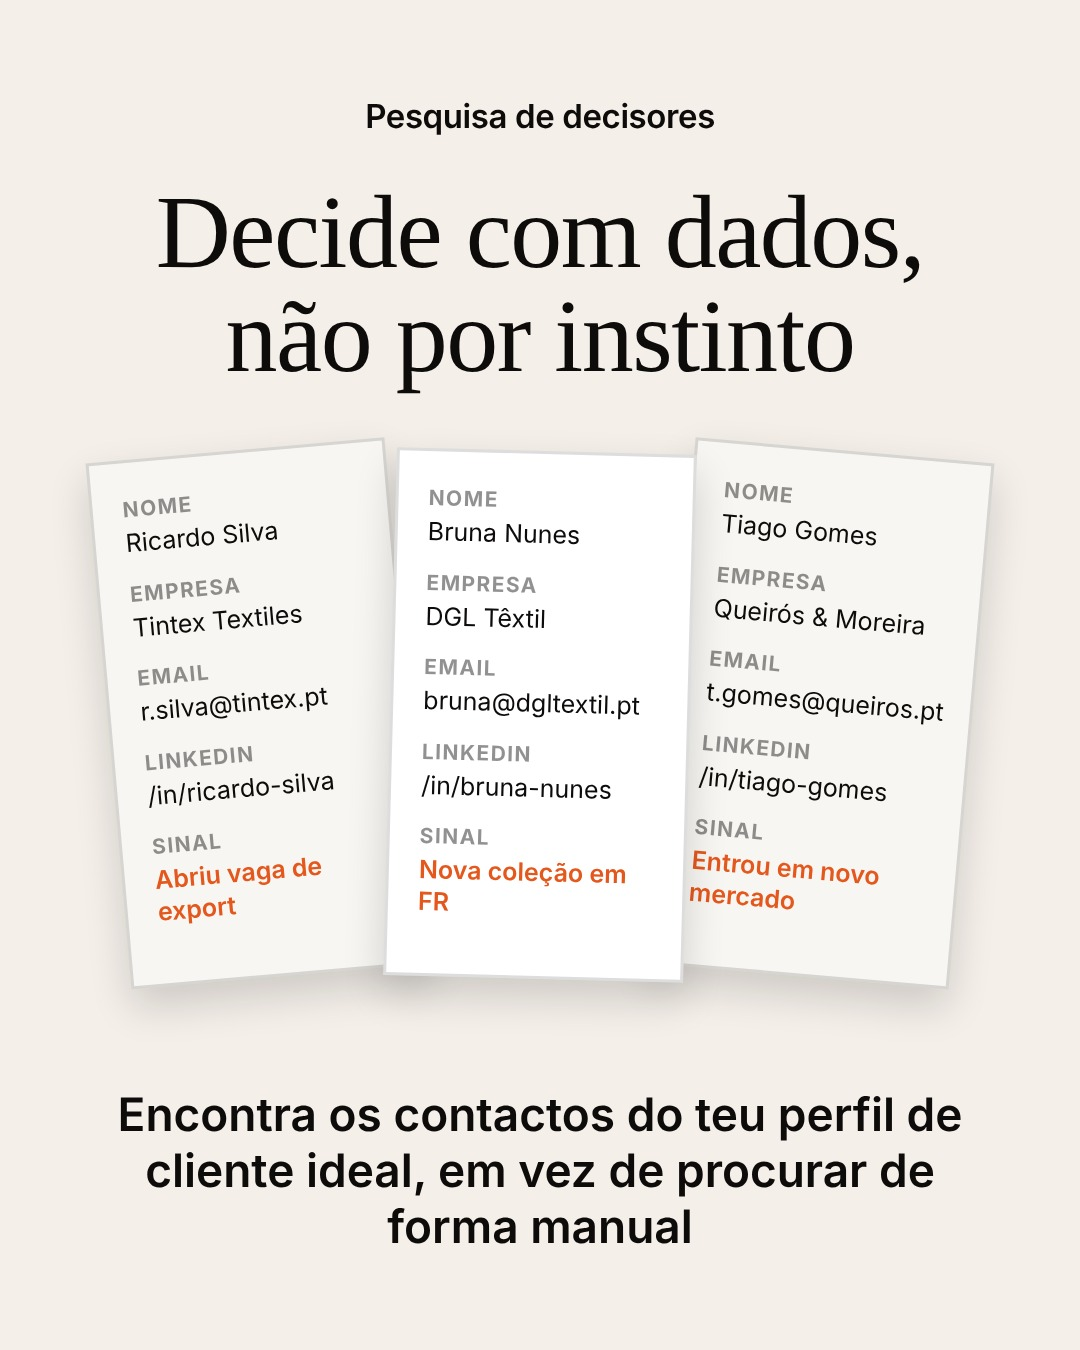
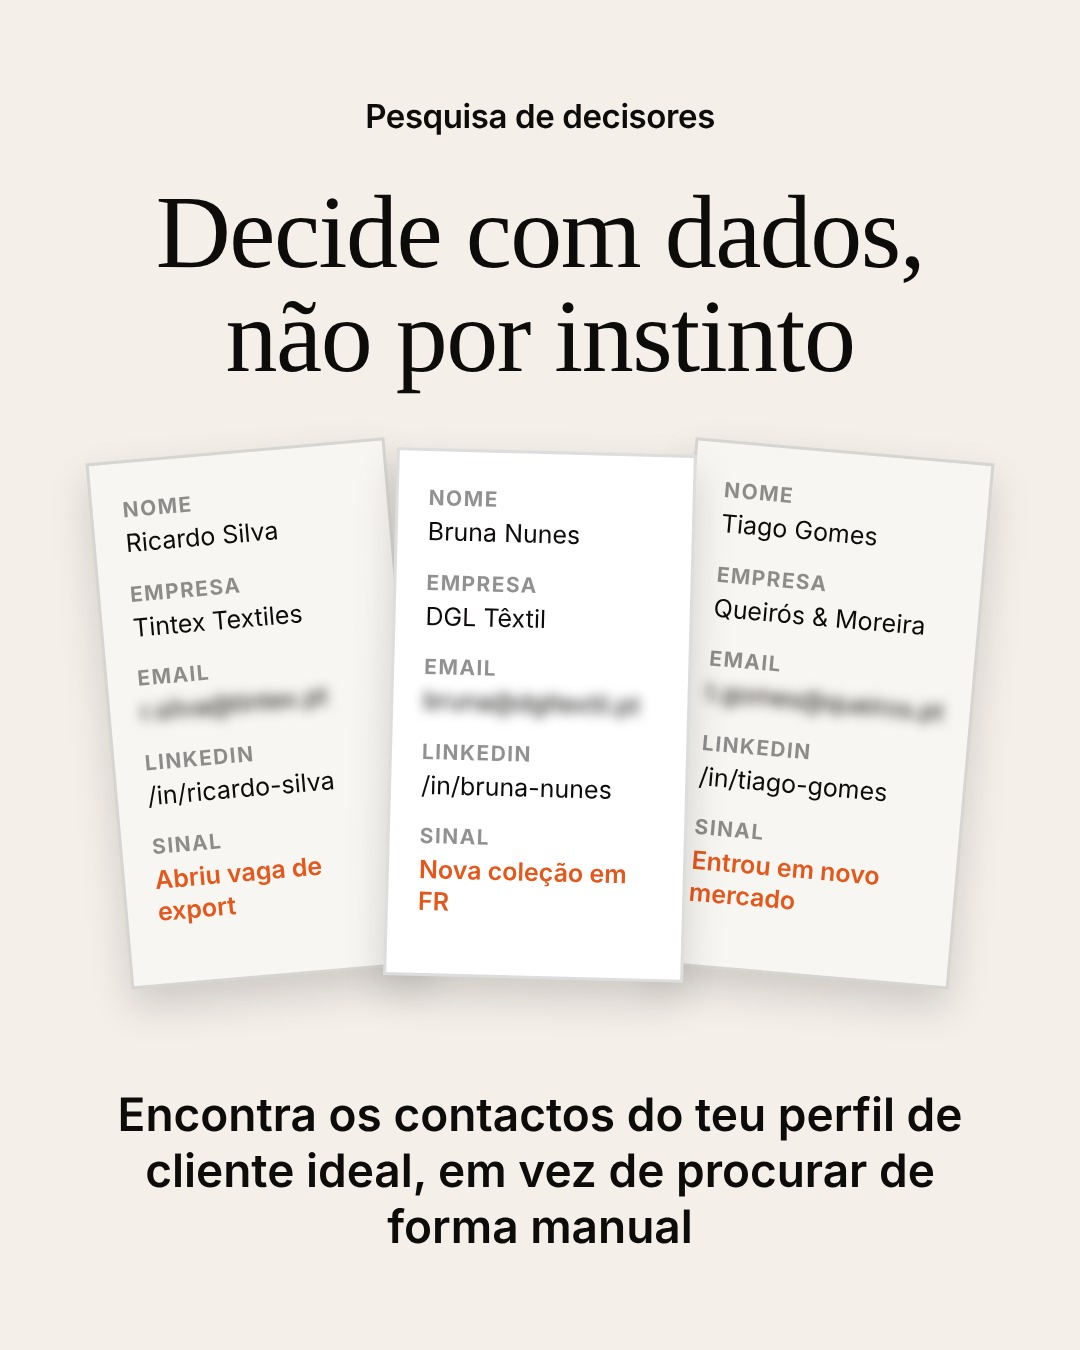
Carrossel de referencia v3: ajustes de texto e espacamento
- capa: automatizar as vendas a branco
- slide 2: emails dos contactos com blur
- slide 3: ramos mais abaixo e frase de fecho
- slide 4: caixas mais acima e frase sobre sequencias multicanal
- slide 5: tarefas descritas como lembretes manuais, nao criadas pelas campanhas
- slide 6: linha entre parenteses removida e conteudo centrado

Changed region(s): [[0.6417, 0.4978, 0.8861, 0.56], [0.1222, 0.4978, 0.3056, 0.56], [0.3667, 0.4978, 0.6111, 0.5289]]

diff --git a/templates/referencia/carrossel-referencia.html b/templates/referencia/carrossel-referencia.html
@@ -34,6 +34,7 @@ section{width:1080px;height:1350px;position:relative;overflow:hidden;display:blo
 #s1 .pe{position:absolute;left:96px;right:96px;bottom:120px;z-index:2}
 #s1 .pe img{height:62px;display:block;margin-bottom:26px}
 #s1 .pe p{color:var(--bg);font-weight:700;font-size:50px;line-height:1.2}
+#s1 .pe .claro{color:#fff}
 
 /* ---------- 2. CARTOES DE CONTACTO ---------- */
 #s2{background:var(--ink);color:var(--bg);padding:96px 64px}
@@ -49,6 +50,7 @@ section{width:1080px;height:1350px;position:relative;overflow:hidden;display:blo
 #s2 .campo b{display:block;font-weight:700;font-size:21px;letter-spacing:1.4px;
   text-transform:uppercase;color:rgba(14,12,11,.45);margin-bottom:5px}
 #s2 .sinal{color:var(--accent);font-weight:600}
+#s2 .privado{filter:blur(6px);user-select:none}
 #s2 .legenda{text-align:center;font-weight:600;font-size:46px;line-height:1.22;
   max-width:880px;margin:44px auto 0}
 
@@ -56,14 +58,15 @@ section{width:1080px;height:1350px;position:relative;overflow:hidden;display:blo
 #s3{background:var(--accent);color:var(--bg);padding:96px 64px}
 #s3 .conteudo{height:100%;display:flex;flex-direction:column}
 #s3 .titulo{font-size:84px;text-align:center;margin-top:44px}
-#s3 .palco{flex:1;position:relative;margin-top:26px}
+#s3 .palco{flex:1;position:relative;margin-top:20px}
+#s3 .legenda{text-align:center;font-weight:700;font-size:44px;line-height:1.2;max-width:880px;margin:0 auto}
 #s3 .nucleo{position:absolute;left:50%;top:26px;transform:translateX(-50%);
   width:620px;height:230px;background:var(--ink);color:var(--bg);
   display:flex;align-items:center;justify-content:center;
   box-shadow:14px 14px 0 rgba(14,12,11,.22)}
 #s3 .etiqueta-nucleo{font-weight:700;font-size:52px;text-align:center;line-height:1.1}
 #s3 svg{position:absolute;inset:0}
-#s3 .ramos{position:absolute;left:0;right:0;top:430px;display:flex}
+#s3 .ramos{position:absolute;left:0;right:0;top:474px;display:flex}
 #s3 .ramo{flex:1;text-align:center;font-weight:700;font-size:46px;line-height:1.15;padding:0 10px}
 #s3 .marca{position:absolute;left:50%;bottom:4px;transform:translateX(-50%);height:46px;opacity:.75}
 
@@ -71,8 +74,9 @@ section{width:1080px;height:1350px;position:relative;overflow:hidden;display:blo
 #s4{background:var(--bg);color:var(--ink);padding:96px 64px}
 #s4 .conteudo{height:100%;display:flex;flex-direction:column}
 #s4 .titulo{font-size:100px;text-align:center;margin-top:44px;color:var(--ink)}
-#s4 .palco{flex:1;display:flex;align-items:center;gap:30px}
-#s4 .caixa{flex:1;padding:46px 36px;height:620px;position:relative}
+#s4 .palco{flex:1;display:flex;align-items:flex-start;gap:30px;margin-top:40px}
+#s4 .legenda{text-align:center;font-weight:700;font-size:40px;line-height:1.25;max-width:840px;margin:0 auto}
+#s4 .caixa{flex:1;padding:44px 34px;height:560px;position:relative}
 #s4 .mau{background:rgba(244,239,233,.07);border:2px solid rgba(244,239,233,.26)}
 #s4 .bom{background:var(--accent);color:var(--bg)}
 #s4 .cab{font-weight:700;font-size:40px;margin-bottom:34px;line-height:1.1}
@@ -123,14 +127,14 @@ section{width:1080px;height:1350px;position:relative;overflow:hidden;display:blo
    radial-gradient(85% 55% at 42% 116%, #B5431A 0%, rgba(14,12,11,0) 78%);
   filter:blur(6px)}
 #s6 .conteudo{position:relative;height:100%;display:flex;flex-direction:column;
-  align-items:center;padding:150px 72px 120px;text-align:center}
+  align-items:center;justify-content:center;gap:92px;padding:120px 72px;text-align:center}
 #s6 .segreda{font-weight:600;font-size:40px;color:var(--ink);letter-spacing:.5px}
-#s6 .titulo{font-size:124px;color:var(--accent-2);margin-top:28px}
-#s6 .qr{margin-top:84px;width:400px;height:400px;background:var(--ink);
+#s6 .titulo{font-size:124px;color:var(--accent-2)}
+#s6 .qr{width:400px;height:400px;background:var(--ink);
   display:flex;align-items:center;justify-content:center;
   box-shadow:0 24px 60px rgba(0,0,0,.45)}
 #s6 .qr span{font-family:var(--mono);font-size:24px;color:rgba(14,12,11,.4)}
-#s6 .assinatura{margin-top:auto}
+#s6 .assinatura{margin-top:0}
 #s6 .assinatura img{height:64px}
 </style></head>
 <body>
@@ -146,7 +150,7 @@ section{width:1080px;height:1350px;position:relative;overflow:hidden;display:blo
   <h1 class="titulo serif"><span>O que vem</span><br><span class="l2">aí no</span><br><span class="l3">GenitecSales</span></h1>
   <div class="pe">
     <img src="../../media/marca/logo-escuro.png" alt="GenitecSales">
-    <p>Vamos automatizar as vendas<br>da tua empresa? →</p>
+    <p>Vamos <span class="claro">automatizar as vendas</span><br>da tua empresa? →</p>
   </div>
 </section>
 
@@ -159,21 +163,21 @@ section{width:1080px;height:1350px;position:relative;overflow:hidden;display:blo
       <div class="cartao">
         <p class="campo"><b>Nome</b>Ricardo Silva</p>
         <p class="campo"><b>Empresa</b>Tintex Textiles</p>
-        <p class="campo"><b>Email</b>r.silva@tintex.pt</p>
+        <p class="campo"><b>Email</b><span class="privado">r.silva@tintex.pt</span></p>
         <p class="campo"><b>LinkedIn</b>/in/ricardo-silva</p>
         <p class="campo"><b>Sinal</b><span class="sinal">Abriu vaga de export</span></p>
       </div>
       <div class="cartao">
         <p class="campo"><b>Nome</b>Bruna Nunes</p>
         <p class="campo"><b>Empresa</b>DGL Têxtil</p>
-        <p class="campo"><b>Email</b>bruna@dgltextil.pt</p>
+        <p class="campo"><b>Email</b><span class="privado">bruna@dgltextil.pt</span></p>
         <p class="campo"><b>LinkedIn</b>/in/bruna-nunes</p>
         <p class="campo"><b>Sinal</b><span class="sinal">Nova coleção em FR</span></p>
       </div>
       <div class="cartao">
         <p class="campo"><b>Nome</b>Tiago Gomes</p>
         <p class="campo"><b>Empresa</b>Queirós &amp; Moreira</p>
-        <p class="campo"><b>Email</b>t.gomes@queiros.pt</p>
+        <p class="campo"><b>Email</b><span class="privado">t.gomes@queiros.pt</span></p>
         <p class="campo"><b>LinkedIn</b>/in/tiago-gomes</p>
         <p class="campo"><b>Sinal</b><span class="sinal">Entrou em novo mercado</span></p>
       </div>
@@ -189,9 +193,9 @@ section{width:1080px;height:1350px;position:relative;overflow:hidden;display:blo
     <h2 class="titulo serif">Vê todas as tuas conversas<br>no mesmo sítio</h2>
     <div class="palco">
       <svg viewBox="0 0 952 560"><g stroke="#0E0C0B" stroke-width="4" fill="#0E0C0B">
-        <path d="M400 256 L168 390" fill="none"/><circle cx="168" cy="390" r="9"/><circle cx="400" cy="256" r="9"/>
-        <path d="M476 268 L476 390" fill="none"/><circle cx="476" cy="390" r="9"/><circle cx="476" cy="268" r="9"/>
-        <path d="M552 256 L784 390" fill="none"/><circle cx="784" cy="390" r="9"/><circle cx="552" cy="256" r="9"/>
+        <path d="M400 300 L168 430" fill="none"/><circle cx="168" cy="430" r="9"/><circle cx="400" cy="300" r="9"/>
+        <path d="M476 300 L476 430" fill="none"/><circle cx="476" cy="430" r="9"/><circle cx="476" cy="300" r="9"/>
+        <path d="M552 300 L784 430" fill="none"/><circle cx="784" cy="430" r="9"/><circle cx="552" cy="300" r="9"/>
       </g></svg>
       <div class="nucleo"><span class="etiqueta-nucleo">Respostas<br>Centralizadas</span></div>
       <div class="ramos">
@@ -200,6 +204,7 @@ section{width:1080px;height:1350px;position:relative;overflow:hidden;display:blo
         <p class="ramo">Todas as<br>campanhas</p>
       </div>
     </div>
+    <p class="legenda">Não gastes mais tempo à procura<br>das conversas com as leads</p>
   </div>
 </section>
 
@@ -224,9 +229,9 @@ section{width:1080px;height:1350px;position:relative;overflow:hidden;display:blo
           <li>Follow-up automático até responder</li>
           <li>Mensagens, respostas e oportunidades organizadas</li>
         </ul>
-        <img class="selo" src="../../media/marca/logo-escuro.png" alt="GenitecSales">
       </div>
     </div>
+    <p class="legenda">Podes criar sequências de mensagens LinkedIn e email na mesma campanha, a escolha é tua</p>
   </div>
 </section>
 
@@ -271,12 +276,12 @@ section{width:1080px;height:1350px;position:relative;overflow:hidden;display:blo
         <span class="circulo"></span>
         <div>
           <p class="ttitulo">Marcar segunda reunião</p>
-          <p class="tdesc">O Ricardo pediu para remarcar e não deixou data. Fazer follow-up.<br>
+          <p class="tdesc">Lembrete criado por mim: o Ricardo pediu para remarcar e não deixou data.<br>
           até <span class="prazo">10/11/2026</span> · campanha Têxtil e calçado · Ricardo</p>
         </div>
       </div>
     </div>
-    <p class="legenda">A campanha cria a tarefa. A tarefa vira negócio.</p>
+    <p class="legenda">Organiza todas as tuas tarefas e oportunidades</p>
   </div>
 </section>
 
@@ -285,7 +290,6 @@ section{width:1080px;height:1350px;position:relative;overflow:hidden;display:blo
   <div class="luz"></div>
   <svg class="ruido" width="1080" height="1350"><rect width="1080" height="1350" filter="url(#grao)"/></svg>
   <div class="conteudo">
-    <p class="segreda">(Envia a um amigo)</p>
     <h2 class="titulo serif">A lista de espera<br>está aberta</h2>
     <div class="qr"><span>QR: media/qr-lista.png</span></div>
     <p class="assinatura"><img src="../../media/marca/logo-escuro.png" alt="GenitecSales"></p>
